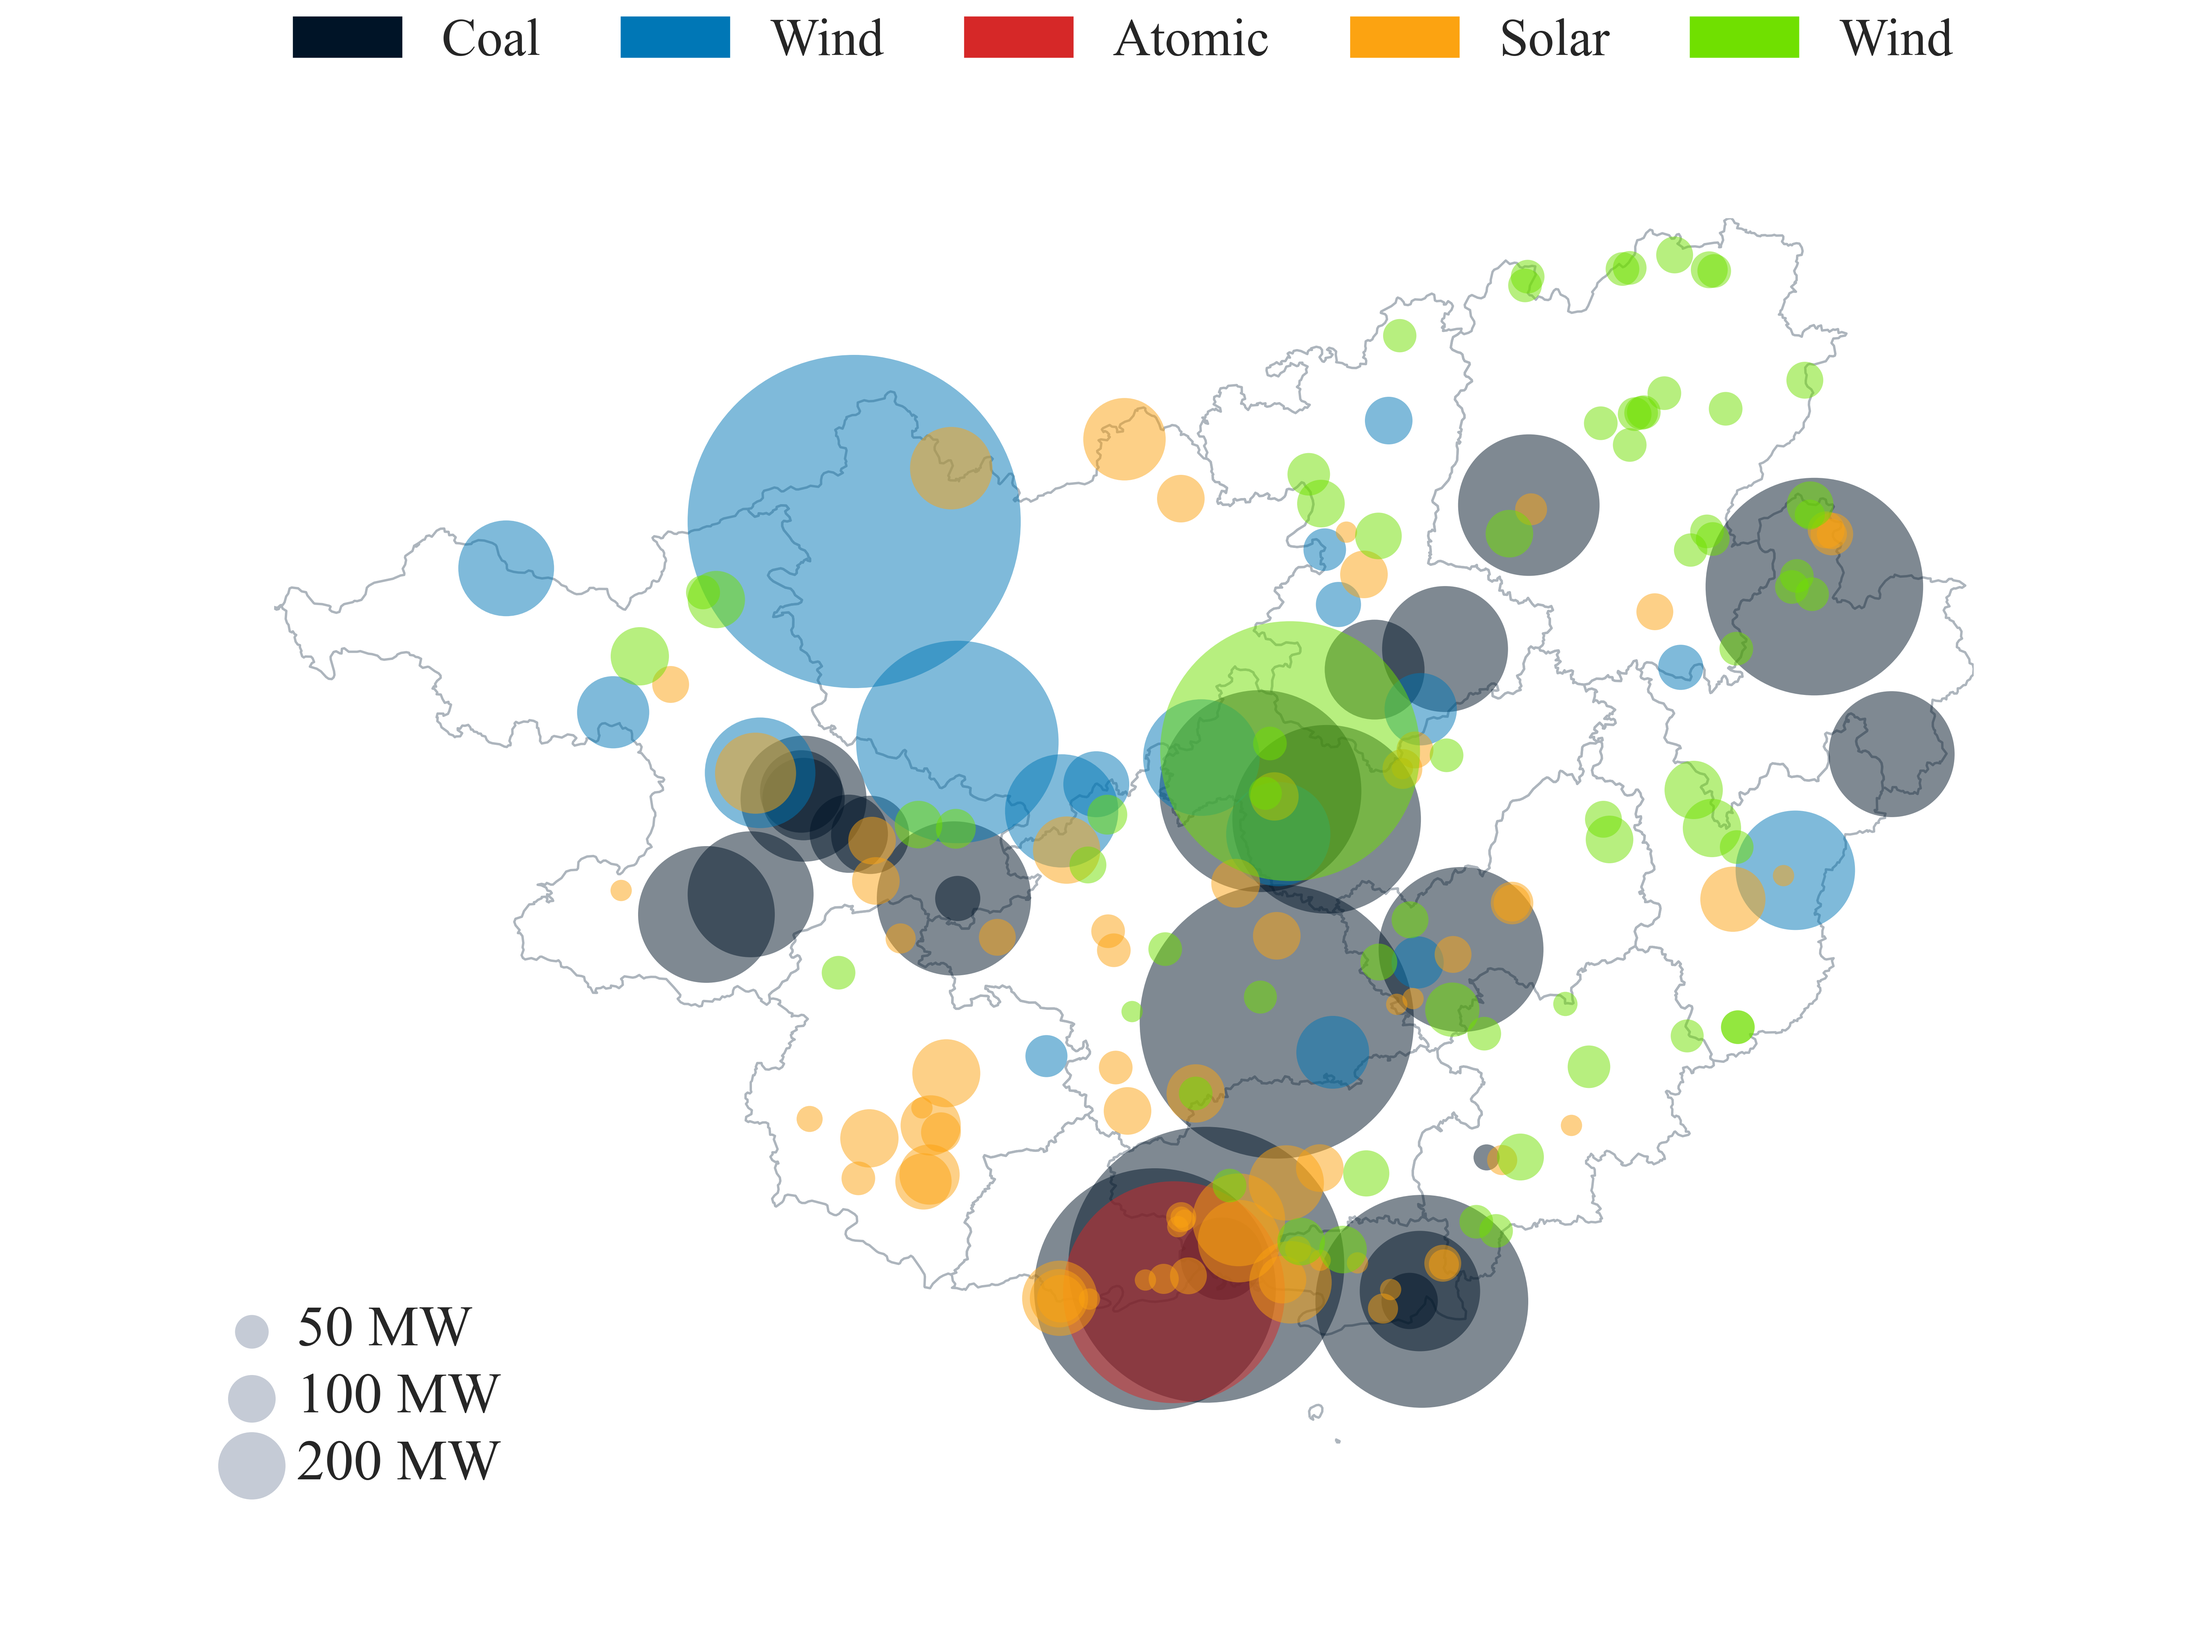
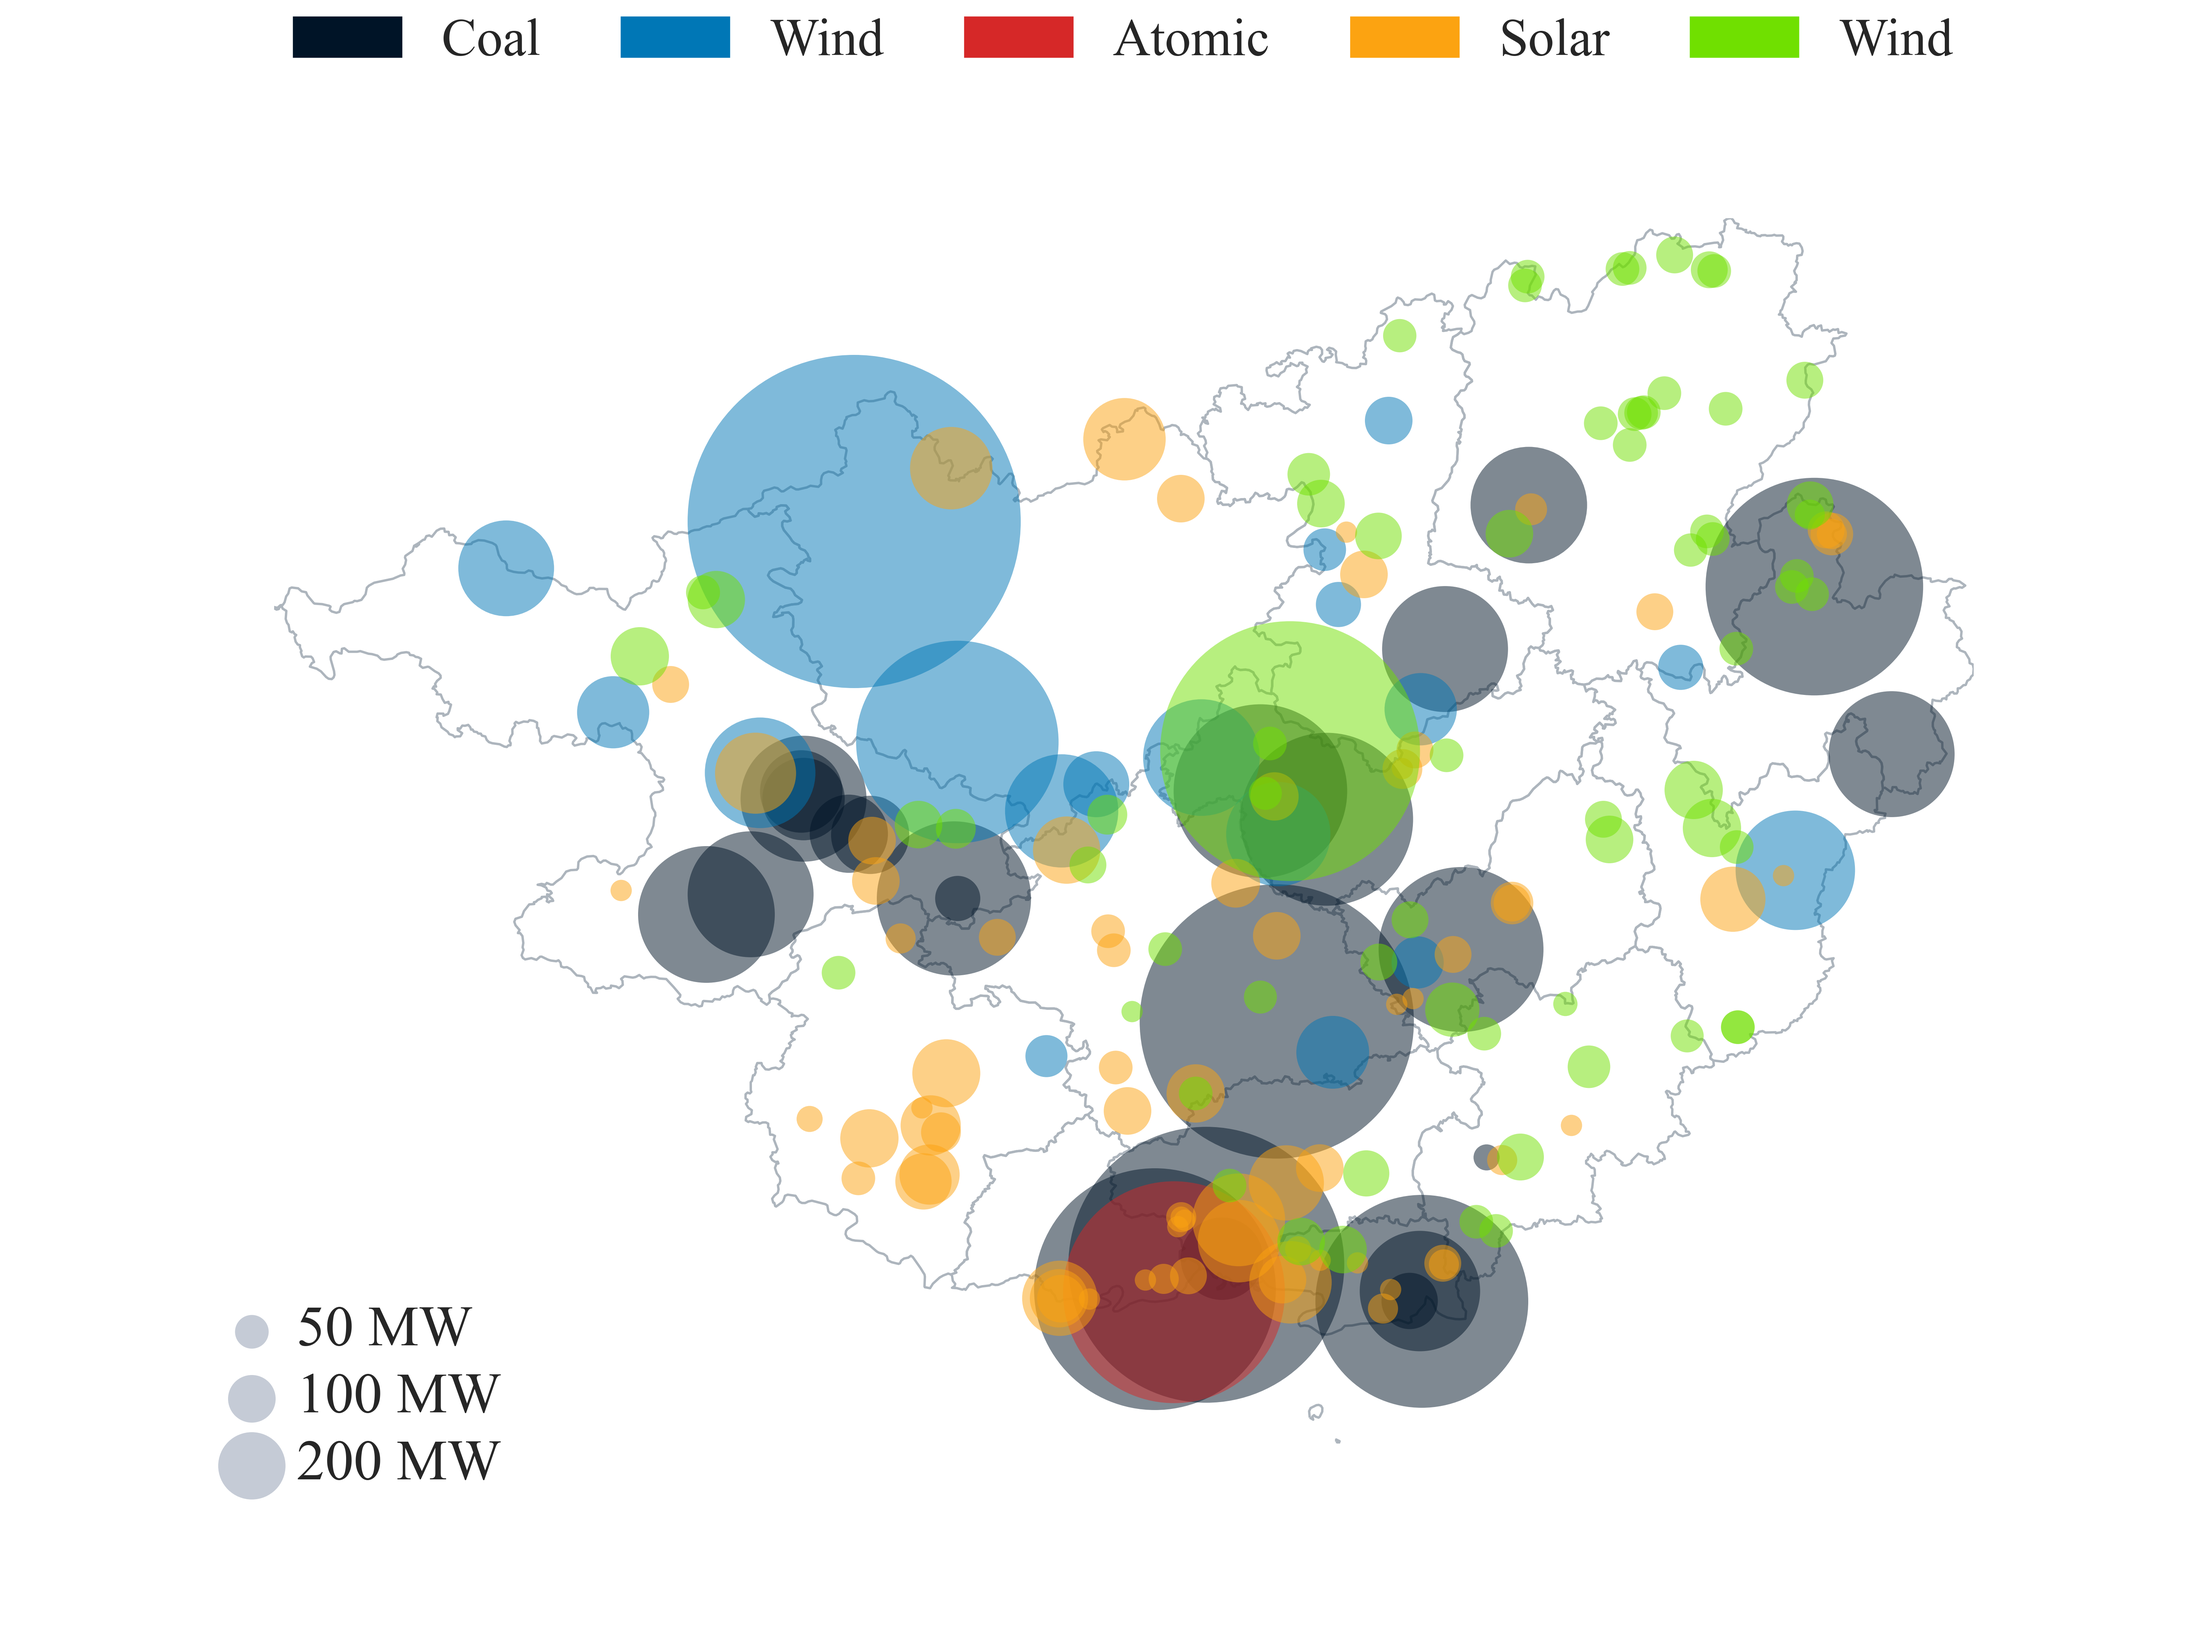
add selection

Changed region(s): [[0.5312, 0.375, 0.6562, 0.5625], [0.6562, 0.25, 0.75, 0.375]]

diff --git a/power_plant_distribution.py b/power_plant_distribution.py
@@ -40,9 +40,10 @@ def data_filter(df, year):
     df = df.dropna(subset=['Longitude', 'Latitude', "Start year", "Country"])
     # By country
     df = df[df["Country"] == "China"]
-    df["Retired year"] = df["Retired year"].fillna("2024")
+    df["Retired year"] = df["Retired year"].fillna(2024)
     df.astype({"Capacity (MW)":float, "Start year":int, "Retired year":int, "Latitude":float, "Longitude":float})
     df = df[df["Start year"] <= year]
+    df = df[df["Retired year"] >= year]
 
     # Merge those with the same "Plant name"
     df = df.groupby(['Latitude', 'Longitude'], as_index=False)['Capacity (MW)'].sum()
